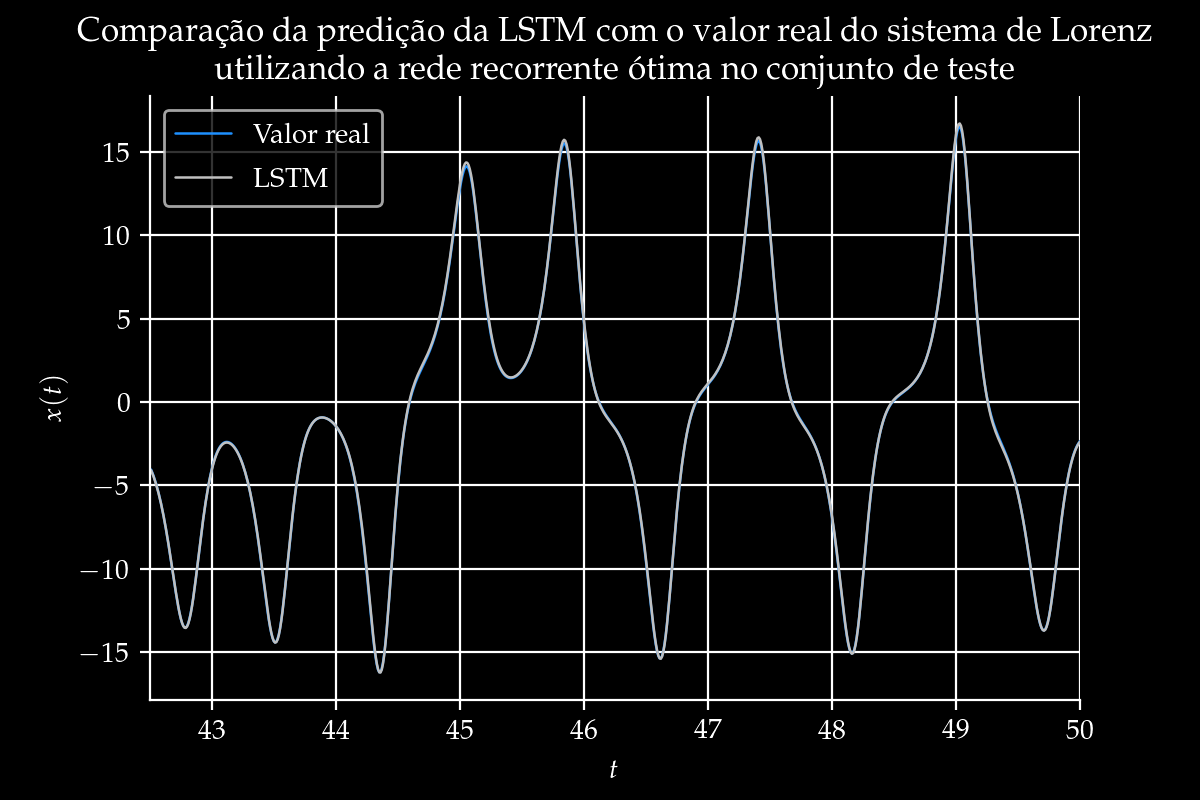
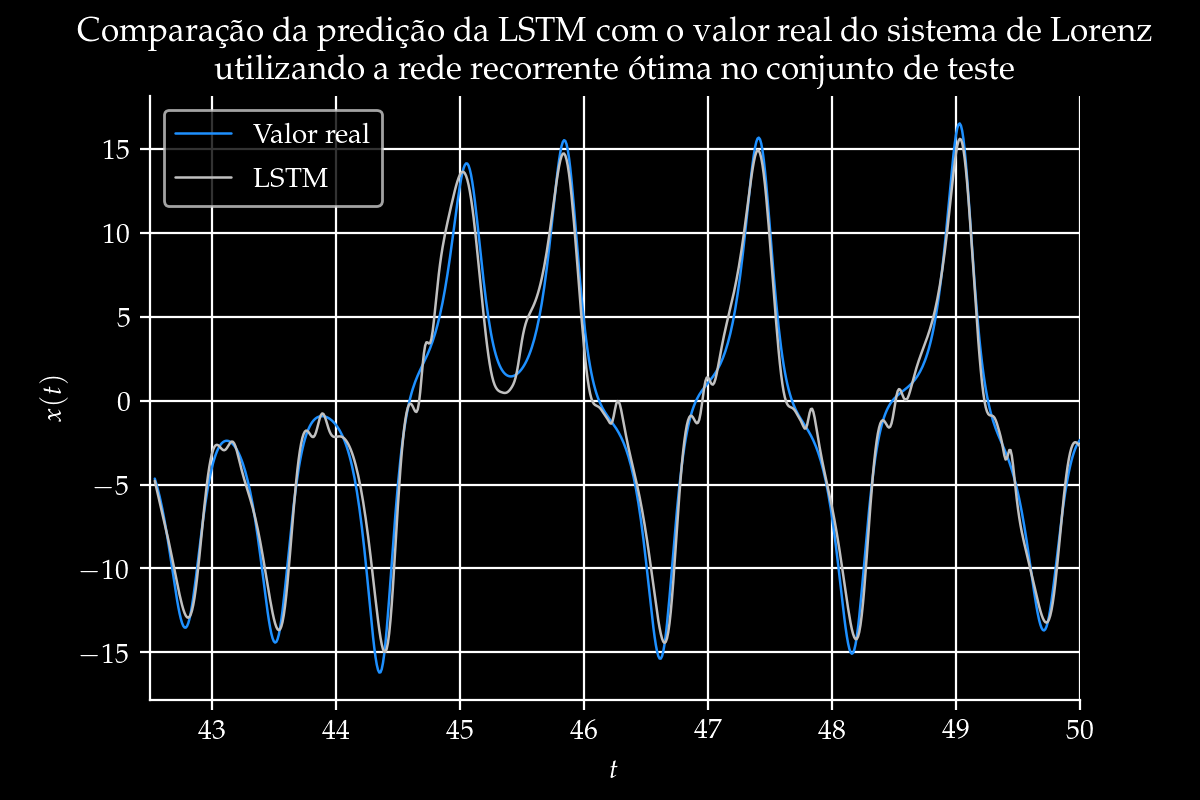
implementei a escolha do formato de entrada na classe LSTM

Changed region(s): [[0.0925, 0.1562, 0.8942, 0.8438], [0.0925, 0.1562, 0.1233, 0.2188]]

diff --git a/scripts/lstm_model.py b/scripts/lstm_model.py
@@ -8,7 +8,7 @@ from sklearn.metrics import mean_squared_error
 
 class ModeloLSTM():
     
-    def __init__(self, input_shape, name="LSTM"):
+    def __init__(self, input_shape, name="LSTM", shape='many-to-one', step=None):
         """
         Descrição:
         ----------
@@ -18,6 +18,10 @@ class ModeloLSTM():
         -----------
         input_dim: tuple
             Formato de entrada do preditor
+        step: int
+            Passo de predição. Somente utilizado caso o formato de entrada for 'many-to-many'
+        shape: str
+            Forma do vetor de entrada ('many-to-many', 'one-to-one' ou 'many-to-one')    
         name: str
             Nome a ser dado para o modelo
 
@@ -31,9 +35,20 @@ class ModeloLSTM():
             
         if not (type(name) is str):
             raise TypeError("O nome do modelo deve ser uma string!")
+
+        if not (type(shape) is str):
+            raise TypeError("O formato do vetor de entrada deve ser uma string!")
         
+        if not ((shape == 'many-to-one') or (shape == 'one-to-one') or (shape == 'many-to-many')):
+            raise ValueError("Formato de vetor de entrada não reconhecido")
+
+        if not ((type(step) is int) or (type(step) is None)):
+            raise TypeError("Formato do passo de predição inválido!")
+
         self._input_shape = input_shape
         self._name = name
+        self._shape = shape
+        self._step = step
         self.modelo = None
         pass
         
@@ -61,14 +76,26 @@ class ModeloLSTM():
         
         # dimensoes de entrada
         input_shape = self._input_shape
+        shape = self._shape
         
+        if (shape == 'many-to-many'):
+            return_sequences = True
+            step = self._step
+        else:
+            return_sequences = False
+
         # nome da rede
         name = self._name
     
         model = keras.Sequential(name=name)
         model.add(keras.Input(shape=input_shape))
-        model.add(keras.layers.LSTM(n_units, activation='tanh', kernel_initializer=init_mode, name="camada_lstm"))
-        model.add(keras.layers.Dense(1, activation='linear', name="camada_de_saida"))
+        model.add(keras.layers.LSTM(n_units, activation='tanh',
+                                    kernel_initializer=init_mode, return_sequences=return_sequences,
+                                    name="camada_lstm"))
+        if (shape == 'many-to-many'):
+            model.add(keras.layers.Dense(step, activation='linear', name="camada_de_saida"))
+        else:
+            model.add(keras.layers.Dense(1, activation='linear', name="camada_de_saida"))
         
         self._modelo = model
         pass
@@ -204,7 +231,7 @@ class ModeloLSTM():
         
         return self._modelo.summary()
     
-    def treinar(self, X_treino, X_val, y_treino, y_val, batch_size=10, early_stopping="ON", epochs=100, scaler=None):
+    def treinar(self, X_treino, X_val, y_treino, y_val, batch_size=10, early_stopping="ON", epochs=100):
         """
         Descrição:
         ----------
@@ -259,14 +286,22 @@ class ModeloLSTM():
             raise TypeError("O número de épocas deve ser um int!")
             
         modelo = self._modelo
+        shape = self._shape
 
-        # formatando os dados de entrada para o many-to-one
+        # formatando os dados de entrada
         len_treino = X_treino.shape[0]
         len_val = X_val.shape[0]
         n_samples = X_treino.shape[1]
 
-        X_treino = np.reshape(X_treino,(len_treino, n_samples, 1))
-        X_val = np.reshape(X_val,(len_val, n_samples, 1))
+        # formatando os dados de entrada para o many-to-one
+        if (shape == 'many-to-one'):
+            X_treino = np.reshape(X_treino,(len_treino, n_samples, 1))
+            X_val = np.reshape(X_val,(len_val, n_samples, 1))
+
+        # formatando os dados de entrada para o one-to-one
+        elif (shape == 'one-to-one'):
+            X_treino = np.reshape(X_treino,(len_treino, 1, n_samples))
+            X_val = np.reshape(X_val,(len_val, 1, n_samples))
         
         if (early_stopping == 'ON'):
             early_stopping_fit = keras.callbacks.EarlyStopping(patience=10, restore_best_weights=True, monitor='val_loss')
@@ -312,11 +347,19 @@ class ModeloLSTM():
             raise TypeError("O scaler deve ser um MinMaxScaler ou StandardScaler!")
 
         modelo = self._modelo
+        shape = self._shape
 
-        # formatando os dados de entrada para o many-to-one
+        # formatando os dados de entrada
         len_teste = X_teste.shape[0]
         n_samples = X_teste.shape[1]
-        X_teste = np.reshape(X_teste,(len_teste, n_samples, 1))
+
+        # formatando os dados de entrada para o many-to-one
+        if (shape == 'many-to-one'):
+            X_teste = np.reshape(X_teste,(len_teste, n_samples, 1))
+
+        # formatando os dados de entrada para o one-to-one
+        elif (shape == 'one-to-one'):
+            X_teste = np.reshape(X_teste,(len_teste, 1, n_samples))
 
         y_pred = modelo.predict(X_teste)
 
@@ -411,15 +454,27 @@ class ModeloLSTM():
                 (type(scaler) is sklearn.preprocessing._data.StandardScaler))):
             raise TypeError("O scaler deve ser um MinMaxScaler ou StandardScaler!")
 
-        # formatando os dados de entrada para o many-to-one
+        shape = self._shape
+
         len_treino = X_treino.shape[0]
         len_val = X_val.shape[0]
         len_teste = X_teste.shape[0]
         n_samples = X_treino.shape[1]
 
-        X_treino = np.reshape(X_treino,(len_treino, n_samples, 1))
-        X_val = np.reshape(X_val,(len_val, n_samples, 1))
-        X_teste = np.reshape(X_teste,(len_teste, n_samples, 1))
+        # formatando os dados de entrada para o many-to-one
+        if (shape == 'many-to-one'):
+            X_treino = np.reshape(X_treino,(len_treino, n_samples, 1))
+            X_val = np.reshape(X_val,(len_val, n_samples, 1))
+            X_teste = np.reshape(X_teste,(len_teste, n_samples, 1))
+
+        # formatando os dados de entrada para o one-to-one
+        elif (shape == 'one-to-one'):
+            X_treino = np.reshape(X_treino,(len_treino, 1, n_samples))
+            X_val = np.reshape(X_val,(len_val, 1, n_samples))
+            X_teste = np.reshape(X_teste,(len_teste, 1, n_samples))
+
+        if (scaler != None):
+            y_teste = scaler.inverse_transform(y_teste)
 
         conjunto_mse = []
         
@@ -429,6 +484,7 @@ class ModeloLSTM():
             early_stopping_fit = None
         
         for n in range(0, n_repeticoes):
+            print("Testando para a repetição de número " + str(n+1))
             modelo = self._modelo
             
             modelo.fit(X_treino, y_treino, 
@@ -440,16 +496,16 @@ class ModeloLSTM():
 
             # caso a escala dos dados tiver sido alterada, desfaz ela para medirmos o mse correto
             if (scaler != None):
-                y_teste = scaler.inverse_transform(y_teste)
                 y_pred = scaler.inverse_transform(y_pred)
 
             mse = mean_squared_error(y_teste, y_pred)
+            print("MSE para essa repetição: " + str(mse))
             conjunto_mse.append(mse)
         
         mse_med = statistics.mean(conjunto_mse)
         mse_dev = statistics.stdev(conjunto_mse)
         
-        print("Média do erro quadrático médio: " + str(mse_med) + "\n")
+        print("Média do erro quadrático médio: " + str(mse_med))
         print("Desvio padrão do erro quadrático médio: " + str(mse_dev) + "\n")
         
         return (mse_med, mse_dev)

diff --git a/scripts/mlp_model.py b/scripts/mlp_model.py
@@ -443,6 +443,7 @@ class ModeloMLP():
             early_stopping_fit = None
         
         for n in range(0, n_repeticoes):
+            print("Testando para a repetição de número " + str(n+1))
             modelo = self._modelo
             
             modelo.fit(X_treino, y_treino, 
@@ -452,12 +453,13 @@ class ModeloMLP():
             
             y_pred = modelo.predict(X_teste)
             mse = mean_squared_error(y_teste, y_pred)
+            print("MSE para essa repetição: " + str(mse))
             conjunto_mse.append(mse)
         
         mse_med = statistics.mean(conjunto_mse)
         mse_dev = statistics.stdev(conjunto_mse)
         
-        print("Média do erro quadrático médio: " + str(mse_med) + "\n")
+        print("Média do erro quadrático médio: " + str(mse_med))
         print("Desvio padrão do erro quadrático médio: " + str(mse_dev) + "\n")
         
         return (mse_med, mse_dev)
